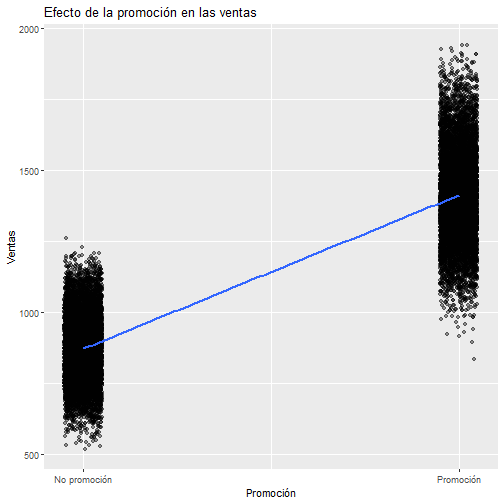
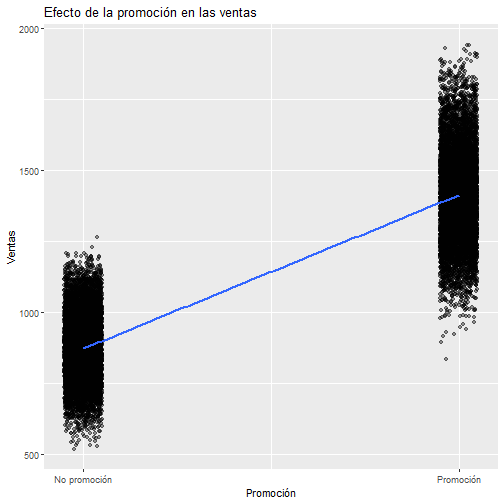
change a docker file, becose i dont accest to remote host

diff --git a/fase2_proyecto.html b/fase2_proyecto.html
@@ -159,23 +159,7 @@
   <!-- ========== FIN HERO ========== -->
 
   <!-- ========= CHUNK DE SETUP (R OCULTO) ========= -->
-<div class="chunk" id="setup"><div class="rcode"><div class="error"><pre class="knitr r">## Error in library(DBI): no hay paquete llamado 'DBI'
-</pre></div>
-<div class="error"><pre class="knitr r">## Error in library(RPostgres): no hay paquete llamado 'RPostgres'
-</pre></div>
-<div class="error"><pre class="knitr r">## Error in library(readr): no hay paquete llamado 'readr'
-</pre></div>
-<div class="error"><pre class="knitr r">## Error in library(dplyr): no hay paquete llamado 'dplyr'
-</pre></div>
-<div class="error"><pre class="knitr r">## Error in dbConnect(RPostgres::Postgres(), host = "192.168.1.194", port = 5432, : no se pudo encontrar la función "dbConnect"
-</pre></div>
-<div class="error"><pre class="knitr r">## Error in read_csv2("Zara_sales.csv", show_col_types = FALSE): no se pudo encontrar la función "read_csv2"
-</pre></div>
-<div class="error"><pre class="knitr r">## Error in rename(ventas, product_id = `Product ID`, product_position = `Product Position`, : no se pudo encontrar la función "rename"
-</pre></div>
-<div class="error"><pre class="knitr r">## Error in dbWriteTable(con, "zara_sales", ventas, overwrite = TRUE): no se pudo encontrar la función "dbWriteTable"
-</pre></div>
-</div></div>
+
 
   <!-- ========== CONTENIDO PRINCIPAL ========== -->
   <div class="layout">
@@ -237,13 +221,24 @@ GROUP BY section;
             </code>
           </div>
 
-<div class="error"><pre class="knitr r">## Error in dbGetQuery(con, "\n  SELECT section, COUNT(*) AS num_productos\n  FROM zara_sales\n  GROUP BY section;\n"): no se pudo encontrar la función "dbGetQuery"
-</pre></div>
-<div class="error"><pre class="knitr r">## Error: objeto 'res1' no encontrado
-</pre></div>
-<div class="error"><pre class="knitr r">## Error: objeto 'html' no encontrado
-</pre></div>
-
+<div class="result-card"><table class="table">
+ <thead>
+  <tr>
+   <th style="text-align:left;"> section </th>
+   <th style="text-align:right;"> num_productos </th>
+  </tr>
+ </thead>
+<tbody>
+  <tr>
+   <td style="text-align:left;"> MAN </td>
+   <td style="text-align:right;"> 6998 </td>
+  </tr>
+  <tr>
+   <td style="text-align:left;"> WOMAN </td>
+   <td style="text-align:right;"> 13254 </td>
+  </tr>
+</tbody>
+</table></div>
 
           <!-- 2) Ventas por temporada -->
           <div class="sql-card">
@@ -257,13 +252,37 @@ GROUP BY season;
             </code>
           </div>
 
-<div class="error"><pre class="knitr r">## Error in dbGetQuery(con, "\n  SELECT season,\n         AVG(sales) AS avg_sales,\n         SUM(sales) AS total_sales\n  FROM zara_sales\n  GROUP BY season;\n"): no se pudo encontrar la función "dbGetQuery"
-</pre></div>
-<div class="error"><pre class="knitr r">## Error: objeto 'res2' no encontrado
-</pre></div>
-<div class="error"><pre class="knitr r">## Error: objeto 'html' no encontrado
-</pre></div>
-
+<div class="result-card"><table class="table">
+ <thead>
+  <tr>
+   <th style="text-align:left;"> season </th>
+   <th style="text-align:right;"> avg_sales </th>
+   <th style="text-align:right;"> total_sales </th>
+  </tr>
+ </thead>
+<tbody>
+  <tr>
+   <td style="text-align:left;"> Winter </td>
+   <td style="text-align:right;"> 1174.613 </td>
+   <td style="text-align:right;"> 6042207 </td>
+  </tr>
+  <tr>
+   <td style="text-align:left;"> Summer </td>
+   <td style="text-align:right;"> 1184.589 </td>
+   <td style="text-align:right;"> 3442417 </td>
+  </tr>
+  <tr>
+   <td style="text-align:left;"> Autumn </td>
+   <td style="text-align:right;"> 1042.820 </td>
+   <td style="text-align:right;"> 7993214 </td>
+  </tr>
+  <tr>
+   <td style="text-align:left;"> Spring </td>
+   <td style="text-align:right;"> 1046.223 </td>
+   <td style="text-align:right;"> 4746716 </td>
+  </tr>
+</tbody>
+</table></div>
 
           <!-- 3) Ventas por rangos de precio -->
           <div class="sql-card">
@@ -280,13 +299,22 @@ GROUP BY rango_precio;
             </code>
           </div>
 
-<div class="error"><pre class="knitr r">## Error in dbGetQuery(con, "\n  SELECT CASE\n    WHEN price &lt; 20 THEN 'Bajo'\n    WHEN price BETWEEN 20 AND 39.99 THEN 'Medio'\n    ELSE 'Alto'\n  END AS rango_precio,\n  AVG(sales) AS avg_sales,\n  COUNT(*) AS num_productos\n  FROM zara_sales\n  GROUP BY rango_precio;\n"): no se pudo encontrar la función "dbGetQuery"
-</pre></div>
-<div class="error"><pre class="knitr r">## Error: objeto 'res3' no encontrado
-</pre></div>
-<div class="error"><pre class="knitr r">## Error: objeto 'html' no encontrado
-</pre></div>
-
+<div class="result-card"><table class="table">
+ <thead>
+  <tr>
+   <th style="text-align:left;"> rango_precio </th>
+   <th style="text-align:right;"> avg_sales </th>
+   <th style="text-align:right;"> num_productos </th>
+  </tr>
+ </thead>
+<tbody>
+  <tr>
+   <td style="text-align:left;"> Alto </td>
+   <td style="text-align:right;"> 1097.4 </td>
+   <td style="text-align:right;"> 20252 </td>
+  </tr>
+</tbody>
+</table></div>
 
           <!-- 4) Promoción vs ventas -->
           <div class="sql-card">
@@ -300,13 +328,27 @@ GROUP BY promotion;
             </code>
           </div>
 
-<div class="error"><pre class="knitr r">## Error in dbGetQuery(con, "\n  SELECT promotion,\n         AVG(sales) AS avg_sales,\n         SUM(sales) AS total_sales\n  FROM zara_sales\n  GROUP BY promotion;\n"): no se pudo encontrar la función "dbGetQuery"
-</pre></div>
-<div class="error"><pre class="knitr r">## Error: objeto 'res4' no encontrado
-</pre></div>
-<div class="error"><pre class="knitr r">## Error: objeto 'html' no encontrado
-</pre></div>
-
+<div class="result-card"><table class="table">
+ <thead>
+  <tr>
+   <th style="text-align:left;"> promotion </th>
+   <th style="text-align:right;"> avg_sales </th>
+   <th style="text-align:right;"> total_sales </th>
+  </tr>
+ </thead>
+<tbody>
+  <tr>
+   <td style="text-align:left;"> No </td>
+   <td style="text-align:right;"> 872.3771 </td>
+   <td style="text-align:right;"> 10304518 </td>
+  </tr>
+  <tr>
+   <td style="text-align:left;"> Yes </td>
+   <td style="text-align:right;"> 1412.3265 </td>
+   <td style="text-align:right;"> 11920036 </td>
+  </tr>
+</tbody>
+</table></div>
 
           <!-- 5) Ventas por origen -->
           <div class="sql-card">
@@ -320,13 +362,77 @@ GROUP BY origin;
             </code>
           </div>
 
-<div class="error"><pre class="knitr r">## Error in dbGetQuery(con, "\n  SELECT origin,\n         AVG(sales) AS avg_sales,\n         SUM(sales) AS total_sales\n  FROM zara_sales\n  GROUP BY origin;\n"): no se pudo encontrar la función "dbGetQuery"
-</pre></div>
-<div class="error"><pre class="knitr r">## Error: objeto 'res5' no encontrado
-</pre></div>
-<div class="error"><pre class="knitr r">## Error: objeto 'html' no encontrado
-</pre></div>
-
+<div class="result-card"><table class="table">
+ <thead>
+  <tr>
+   <th style="text-align:left;"> origin </th>
+   <th style="text-align:right;"> avg_sales </th>
+   <th style="text-align:right;"> total_sales </th>
+  </tr>
+ </thead>
+<tbody>
+  <tr>
+   <td style="text-align:left;"> Bangladesh </td>
+   <td style="text-align:right;"> 1087.658 </td>
+   <td style="text-align:right;"> 3934058 </td>
+  </tr>
+  <tr>
+   <td style="text-align:left;"> Cambodia </td>
+   <td style="text-align:right;"> 1091.422 </td>
+   <td style="text-align:right;"> 1070685 </td>
+  </tr>
+  <tr>
+   <td style="text-align:left;"> Portugal </td>
+   <td style="text-align:right;"> 1094.743 </td>
+   <td style="text-align:right;"> 1554535 </td>
+  </tr>
+  <tr>
+   <td style="text-align:left;"> Turkey </td>
+   <td style="text-align:right;"> 1091.313 </td>
+   <td style="text-align:right;"> 2700999 </td>
+  </tr>
+  <tr>
+   <td style="text-align:left;"> China </td>
+   <td style="text-align:right;"> 1106.441 </td>
+   <td style="text-align:right;"> 4454532 </td>
+  </tr>
+  <tr>
+   <td style="text-align:left;"> Spain </td>
+   <td style="text-align:right;"> 1102.844 </td>
+   <td style="text-align:right;"> 1376349 </td>
+  </tr>
+  <tr>
+   <td style="text-align:left;"> Argentina </td>
+   <td style="text-align:right;"> 1096.514 </td>
+   <td style="text-align:right;"> 196276 </td>
+  </tr>
+  <tr>
+   <td style="text-align:left;"> India </td>
+   <td style="text-align:right;"> 1096.032 </td>
+   <td style="text-align:right;"> 2228233 </td>
+  </tr>
+  <tr>
+   <td style="text-align:left;"> Vietnam </td>
+   <td style="text-align:right;"> 1094.718 </td>
+   <td style="text-align:right;"> 1335556 </td>
+  </tr>
+  <tr>
+   <td style="text-align:left;"> Pakistan </td>
+   <td style="text-align:right;"> 1095.286 </td>
+   <td style="text-align:right;"> 662648 </td>
+  </tr>
+  <tr>
+   <td style="text-align:left;"> Brazil </td>
+   <td style="text-align:right;"> 1127.155 </td>
+   <td style="text-align:right;"> 896088 </td>
+  </tr>
+  <tr>
+   <td style="text-align:left;"> Morocco </td>
+   <td style="text-align:right;"> 1097.759 </td>
+   <td style="text-align:right;"> 1814595 </td>
+  </tr>
+</tbody>
+</table></div>
 
           <!-- 6) Ventas por posición en tienda -->
           <div class="sql-card">
@@ -340,13 +446,32 @@ GROUP BY product_position;
             </code>
           </div>
 
-<div class="error"><pre class="knitr r">## Error in dbGetQuery(con, "\n  SELECT product_position,\n         AVG(sales) AS avg_sales,\n         COUNT(*) AS num_productos\n  FROM zara_sales\n  GROUP BY product_position;\n"): no se pudo encontrar la función "dbGetQuery"
-</pre></div>
-<div class="error"><pre class="knitr r">## Error: objeto 'res6' no encontrado
-</pre></div>
-<div class="error"><pre class="knitr r">## Error: objeto 'html' no encontrado
-</pre></div>
-
+<div class="result-card"><table class="table">
+ <thead>
+  <tr>
+   <th style="text-align:left;"> product_position </th>
+   <th style="text-align:right;"> avg_sales </th>
+   <th style="text-align:right;"> num_productos </th>
+  </tr>
+ </thead>
+<tbody>
+  <tr>
+   <td style="text-align:left;"> Front of Store </td>
+   <td style="text-align:right;"> 1103.361 </td>
+   <td style="text-align:right;"> 5651 </td>
+  </tr>
+  <tr>
+   <td style="text-align:left;"> Aisle </td>
+   <td style="text-align:right;"> 1090.427 </td>
+   <td style="text-align:right;"> 7810 </td>
+  </tr>
+  <tr>
+   <td style="text-align:left;"> End-cap </td>
+   <td style="text-align:right;"> 1100.460 </td>
+   <td style="text-align:right;"> 6791 </td>
+  </tr>
+</tbody>
+</table></div>
 
           <!-- 7) Ventas por colección (terms) -->
           <div class="sql-card">
@@ -360,13 +485,42 @@ GROUP BY terms;
             </code>
           </div>
 
-<div class="error"><pre class="knitr r">## Error in dbGetQuery(con, "\n  SELECT terms,\n         AVG(sales) AS avg_sales,\n         SUM(sales) AS total_sales\n  FROM zara_sales\n  GROUP BY terms;\n"): no se pudo encontrar la función "dbGetQuery"
-</pre></div>
-<div class="error"><pre class="knitr r">## Error: objeto 'res7' no encontrado
-</pre></div>
-<div class="error"><pre class="knitr r">## Error: objeto 'html' no encontrado
-</pre></div>
-
+<div class="result-card"><table class="table">
+ <thead>
+  <tr>
+   <th style="text-align:left;"> terms </th>
+   <th style="text-align:right;"> avg_sales </th>
+   <th style="text-align:right;"> total_sales </th>
+  </tr>
+ </thead>
+<tbody>
+  <tr>
+   <td style="text-align:left;"> shoes </td>
+   <td style="text-align:right;"> 1089.090 </td>
+   <td style="text-align:right;"> 2676982 </td>
+  </tr>
+  <tr>
+   <td style="text-align:left;"> t-shirts </td>
+   <td style="text-align:right;"> 1088.200 </td>
+   <td style="text-align:right;"> 2879378 </td>
+  </tr>
+  <tr>
+   <td style="text-align:left;"> sweaters </td>
+   <td style="text-align:right;"> 1104.926 </td>
+   <td style="text-align:right;"> 3598743 </td>
+  </tr>
+  <tr>
+   <td style="text-align:left;"> jeans </td>
+   <td style="text-align:right;"> 1094.549 </td>
+   <td style="text-align:right;"> 721308 </td>
+  </tr>
+  <tr>
+   <td style="text-align:left;"> jackets </td>
+   <td style="text-align:right;"> 1099.372 </td>
+   <td style="text-align:right;"> 12348143 </td>
+  </tr>
+</tbody>
+</table></div>
 
         </div>
       </div>
@@ -457,9 +611,7 @@ GROUP BY terms;
   </div>
 
   <!-- Cerrar conexión al final del documento -->
-<div class="chunk" id="unnamed-chunk-8"><div class="rcode"><div class="error"><pre class="knitr r">## Error in loadNamespace(x): no hay paquete llamado 'DBI'
-</pre></div>
-</div></div>
+
 
 </div>
 
